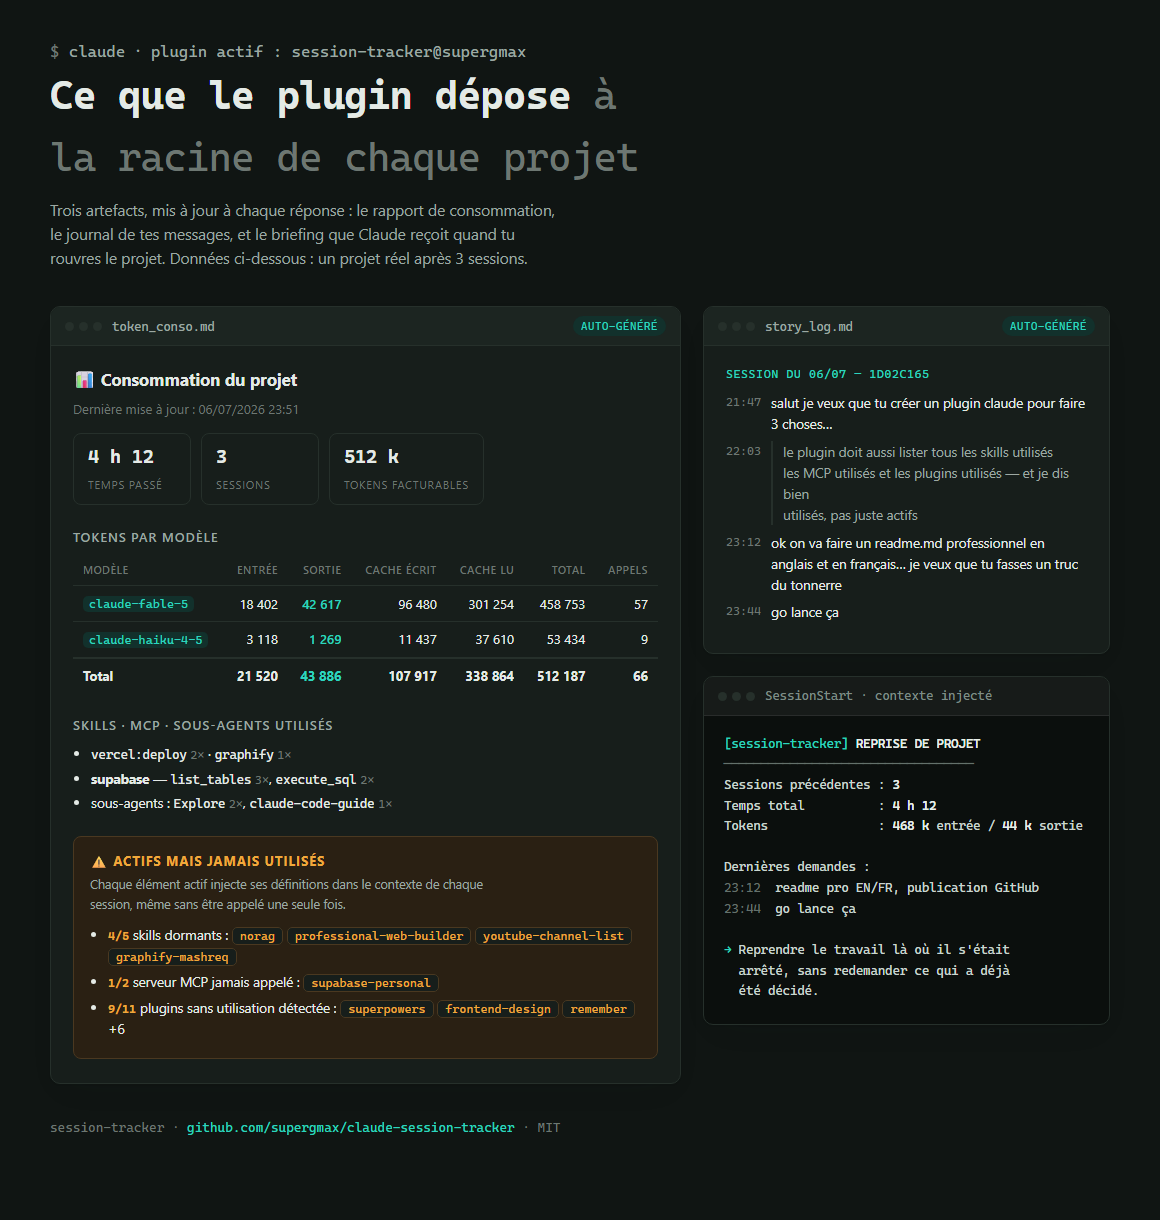
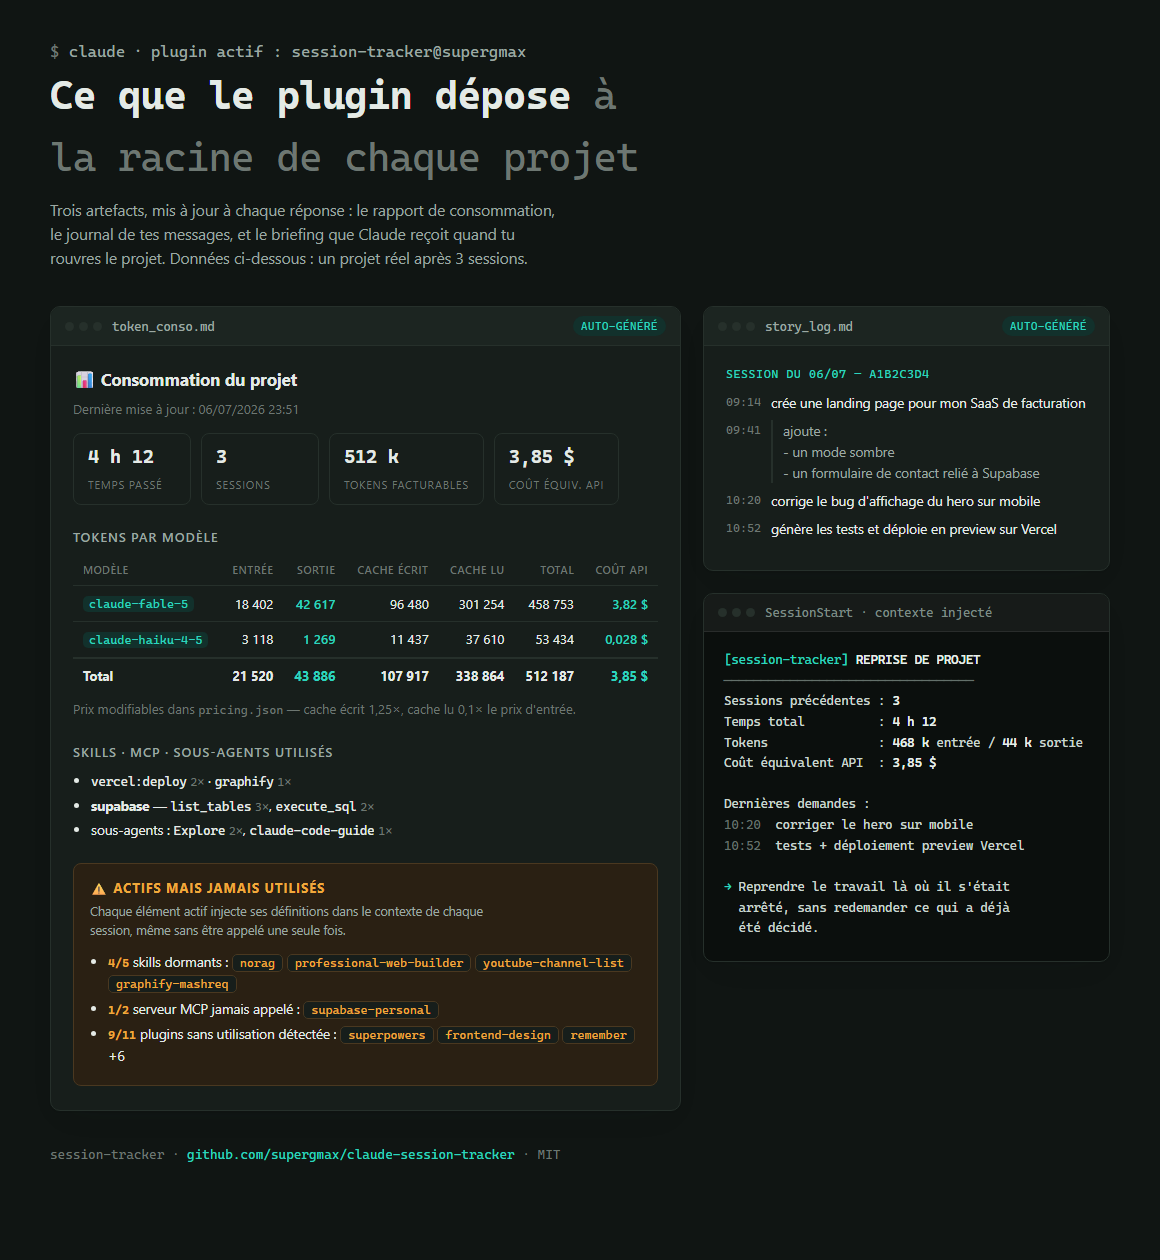
READMEs: add API cost to sample report; regenerate previews with generic messages and cost column

diff --git a/assets/preview.html b/assets/preview.html
@@ -330,21 +330,23 @@
           <div class="kpi"><b>4 h 12</b><span>temps passé</span></div>
           <div class="kpi"><b>3</b><span>sessions</span></div>
           <div class="kpi"><b>512 k</b><span>tokens facturables</span></div>
+          <div class="kpi"><b>3,85 $</b><span>coût équiv. API</span></div>
         </div>
 
         <h3>Tokens par modèle</h3>
         <div class="tbl-scroll">
           <table>
             <thead>
-              <tr><th>Modèle</th><th>Entrée</th><th>Sortie</th><th>Cache écrit</th><th>Cache lu</th><th>Total</th><th>Appels</th></tr>
+              <tr><th>Modèle</th><th>Entrée</th><th>Sortie</th><th>Cache écrit</th><th>Cache lu</th><th>Total</th><th>Coût API</th></tr>
             </thead>
             <tbody>
-              <tr><td><code>claude-fable-5</code></td><td>18 402</td><td class="num-out">42 617</td><td>96 480</td><td>301 254</td><td>458 753</td><td>57</td></tr>
-              <tr><td><code>claude-haiku-4-5</code></td><td>3 118</td><td class="num-out">1 269</td><td>11 437</td><td>37 610</td><td>53 434</td><td>9</td></tr>
-              <tr class="total"><td>Total</td><td>21 520</td><td class="num-out">43 886</td><td>107 917</td><td>338 864</td><td>512 187</td><td>66</td></tr>
+              <tr><td><code>claude-fable-5</code></td><td>18 402</td><td class="num-out">42 617</td><td>96 480</td><td>301 254</td><td>458 753</td><td class="num-out">3,82 $</td></tr>
+              <tr><td><code>claude-haiku-4-5</code></td><td>3 118</td><td class="num-out">1 269</td><td>11 437</td><td>37 610</td><td>53 434</td><td class="num-out">0,028 $</td></tr>
+              <tr class="total"><td>Total</td><td>21 520</td><td class="num-out">43 886</td><td>107 917</td><td>338 864</td><td>512 187</td><td class="num-out">3,85 $</td></tr>
             </tbody>
           </table>
         </div>
+        <p class="meta" style="margin-top:6px">Prix modifiables dans <span class="mono">pricing.json</span> — cache écrit 1,25×, cache lu 0,1× le prix d'entrée.</p>
 
         <h3>Skills · MCP · sous-agents utilisés</h3>
         <ul class="usage">
@@ -374,13 +376,13 @@
           <span class="tag">auto-généré</span>
         </div>
         <div class="win-body log">
-          <p class="sess">Session du 06/07 — 1d02c165</p>
-          <div class="msg"><span class="t">21:47</span><div>salut je veux que tu créer un plugin claude pour faire 3 choses…</div></div>
-          <div class="msg"><span class="t">22:03</span><div class="quote">le plugin doit aussi lister tous les skills utilisés
-les MCP utilisés et les plugins utilisés — et je dis bien
-utilisés, pas juste actifs</div></div>
-          <div class="msg"><span class="t">23:12</span><div>ok on va faire un readme.md professionnel en anglais et en français… je veux que tu fasses un truc du tonnerre</div></div>
-          <div class="msg"><span class="t">23:44</span><div>go lance ça</div></div>
+          <p class="sess">Session du 06/07 — a1b2c3d4</p>
+          <div class="msg"><span class="t">09:14</span><div>crée une landing page pour mon SaaS de facturation</div></div>
+          <div class="msg"><span class="t">09:41</span><div class="quote">ajoute :
+- un mode sombre
+- un formulaire de contact relié à Supabase</div></div>
+          <div class="msg"><span class="t">10:20</span><div>corrige le bug d'affichage du hero sur mobile</div></div>
+          <div class="msg"><span class="t">10:52</span><div>génère les tests et déploie en preview sur Vercel</div></div>
         </div>
       </section>
 
@@ -396,10 +398,11 @@ utilisés, pas juste actifs</div></div>
 Sessions précédentes : <span class="w">3</span>
 Temps total          : <span class="w">4 h 12</span>
 Tokens               : <span class="w">468 k</span> entrée / <span class="w">44 k</span> sortie
+Coût équivalent API  : <span class="w">3,85 $</span>
 
 Dernières demandes :
-<span class="d">23:12</span>  readme pro EN/FR, publication GitHub
-<span class="d">23:44</span>  go lance ça
+<span class="d">10:20</span>  corriger le hero sur mobile
+<span class="d">10:52</span>  tests + déploiement preview Vercel
 
 <span class="g">→</span> Reprendre le travail là où il s'était
   arrêté, sans redemander ce qui a déjà

diff --git a/README.fr.md b/README.fr.md
@@ -42,13 +42,16 @@ Plus un superpouvoir invisible :
 
 Un vrai `token_conso.md` ressemble à ça :
 
+> - **Temps total passé sur le projet** : 4 h 12 min · **Sessions** : 3
+> - **Coût équivalent API** : **3,85 $** *(ce que ce projet aurait coûté au tarif public de l'API)*
+>
 > ## Tokens par modèle
 >
-> | Modèle | Entrée | Sortie | Cache écrit | Cache lu | Total facturable | Appels |
+> | Modèle | Entrée | Sortie | Cache écrit | Cache lu | Total facturable | Coût API |
 > |---|---:|---:|---:|---:|---:|---:|
-> | `claude-fable-5` | 3 600 | 1 060 | 8 700 | 24 000 | 37 360 | 3 |
-> | `claude-haiku-4-5` | 400 | 80 | 0 | 0 | 480 | 1 |
-> | **Total** | **4 000** | **1 140** | **8 700** | **24 000** | **37 840** | **4** |
+> | `claude-fable-5` | 18 402 | 42 617 | 96 480 | 301 254 | 458 753 | 3,82 $ |
+> | `claude-haiku-4-5` | 3 118 | 1 269 | 11 437 | 37 610 | 53 434 | 0,028 $ |
+> | **Total** | **21 520** | **43 886** | **107 917** | **338 864** | **512 187** | **3,85 $** |
 >
 > ## ⚠️ Actifs mais JAMAIS utilisés (gaspillage potentiel de tokens)
 >

diff --git a/README.md b/README.md
@@ -42,13 +42,16 @@ Plus one invisible superpower:
 
 A real `token_conso.md` looks like this:
 
+> - **Time spent on the project**: 4 h 12 min · **Sessions**: 3
+> - **Equivalent API cost**: **$3.85** *(what this project would have cost at public API rates)*
+>
 > ## Tokens by model
 >
-> | Model | Input | Output | Cache write | Cache read | Billable total | Calls |
+> | Model | Input | Output | Cache write | Cache read | Billable total | API cost |
 > |---|---:|---:|---:|---:|---:|---:|
-> | `claude-fable-5` | 3,600 | 1,060 | 8,700 | 24,000 | 37,360 | 3 |
-> | `claude-haiku-4-5` | 400 | 80 | 0 | 0 | 480 | 1 |
-> | **Total** | **4,000** | **1,140** | **8,700** | **24,000** | **37,840** | **4** |
+> | `claude-fable-5` | 18,402 | 42,617 | 96,480 | 301,254 | 458,753 | $3.82 |
+> | `claude-haiku-4-5` | 3,118 | 1,269 | 11,437 | 37,610 | 53,434 | $0.028 |
+> | **Total** | **21,520** | **43,886** | **107,917** | **338,864** | **512,187** | **$3.85** |
 >
 > ## ⚠️ Active but NEVER used (potential token waste)
 >